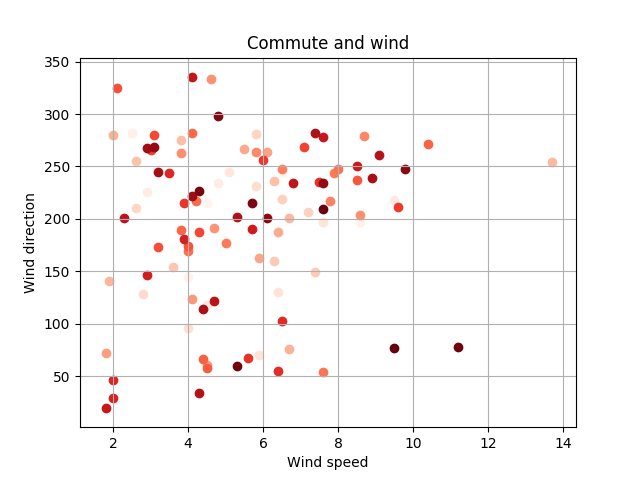
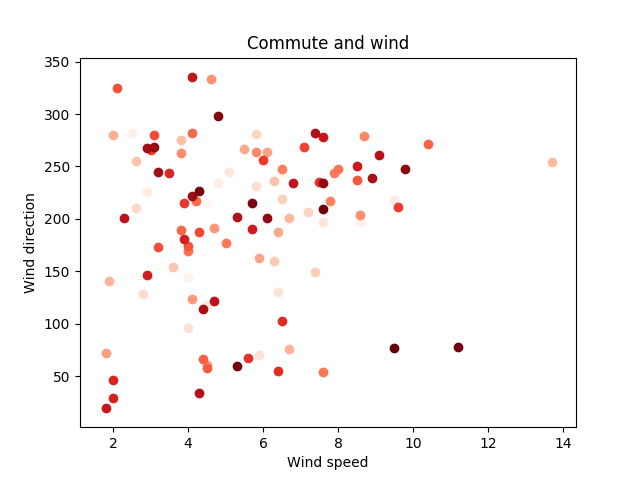
#N/A: Add wind direction

diff --git a/_posts/2018-05-01-commute.md b/_posts/2018-05-01-commute.md
@@ -8,6 +8,8 @@ image:      /assets/commute/map.png
 
 ![Map with commute](/assets/commute/map.png) 
 
+**The article was updated 17.05.2018 with wind direction data.**
+
 Since I moved to Amsterdam I'm biking to work almost every morning. And as Google is
 always tracking the location of my phone, I thought that it might be interesting to do
 something with that data.
@@ -181,12 +183,13 @@ The data is in easy to parse format:
   240,19510102,  153,   41,   41,   82,    4,   10,   21,     ,     ,   13,    7,    4,   18,   19,     ,     ,     ,     ,     ,     ,     ,     ,     , 9876, 9923,     , 9853,     ,     ,     ,     ,     ,    8,   93,   98,    9,   88,    1,     
 ~~~
 
-I only used `FG` (Daily mean wind speed in 0.1 m/s) and `TG` (Daily mean temperature in 0.1 degrees Celsius):
+I only used `FG` (Daily mean wind speed in 0.1 m/s), `TG` (Daily mean temperature in 0.1 degrees Celsius)
+and `DDVEC` (Vector mean wind direction in degrees):
 
 ~~~python
 from dateutil.parser import parse
 
-Weather = namedtuple('Weather', 'windspeed, temperature')
+Weather = namedtuple('Weather', 'windspeed, temperature, wind_direction')
 
 
 def read_weather():
@@ -201,6 +204,7 @@ def read_weather():
             result[parse(data[1]).date()] = Weather(
                 int(data[4]) / 10,
                 int(data[11]) / 10,
+                int(data[2]),
             )
 
     return result
@@ -209,9 +213,9 @@ weather = read_weather()
 ~~~
 ~~~python
 >>> weather
-{datetime.date(1951, 1, 1): Weather(windspeed=8.7, temperature=1.2),
- datetime.date(1951, 1, 2): Weather(windspeed=4.1, temperature=1.3),
- datetime.date(1951, 1, 3): Weather(windspeed=2.1, temperature=0.3),
+{datetime.date(1951, 1, 1): Weather(windspeed=8.7, temperature=1.2, wind_direction=188),
+ datetime.date(1951, 1, 2): Weather(windspeed=4.1, temperature=1.3, wind_direction=153),
+ datetime.date(1951, 1, 3): Weather(windspeed=2.1, temperature=0.3, wind_direction=203),
  ...}
 ~~~
 
@@ -275,5 +279,56 @@ pyplot.show()
 And the result didn't give me anything:
 
 ![Commute and weather in 3d](/assets/commute/3d.png)
+
+After that I thought that it would be interesting to look at a possible correlation of commute time,
+wind speed, and direction:
+
+~~~python
+from matplotlib import cm
+
+colors = iter(cm.Reds(np.linspace(0, 1, len(normalized))))
+
+fig, ax = pyplot.subplots()
+ax.grid()
+
+for commute in sorted(normalized, key=lambda commute: commute.took.total_seconds() / 60):
+    ax.scatter(weather[commute.day].windspeed,
+               weather[commute.day].wind_direction,
+               color=next(colors))
+
+ax.set(xlabel='Wind speed', ylabel='Wind direction',
+       title='Commute and wind')
+
+ax.grid()
+
+pyplot.show()
+~~~
+
+Longer the commute, redder the dot:
+
+![Commute, wind speed and direction](/assets/commute/intens.png)
+
+Wind direction doesn't look that well on that plot, so I've tried to use polar plot:
+
+~~~python
+colors = iter(cm.Reds(np.linspace(0, 1, len(normalized))))
+
+fig, ax = pyplot.subplots(subplot_kw={'projection': 'polar'})
+
+for commute in sorted(normalized, key=lambda commute: commute.took.total_seconds() / 60):
+    ax.scatter(weather[commute.day].wind_direction,
+               weather[commute.day].windspeed,
+               color=next(colors))
+
+ax.set(title='Commute and wind')
+
+ax.grid()
+
+pyplot.show()
+~~~
+
+And it's much more "readable":
+
+![Polar commute, wind speed and direction](/assets/commute/polar.png)
 
 [Gist with sources.](https://gist.github.com/nvbn/be3c4e470824eee54adc54404dbbc362)
